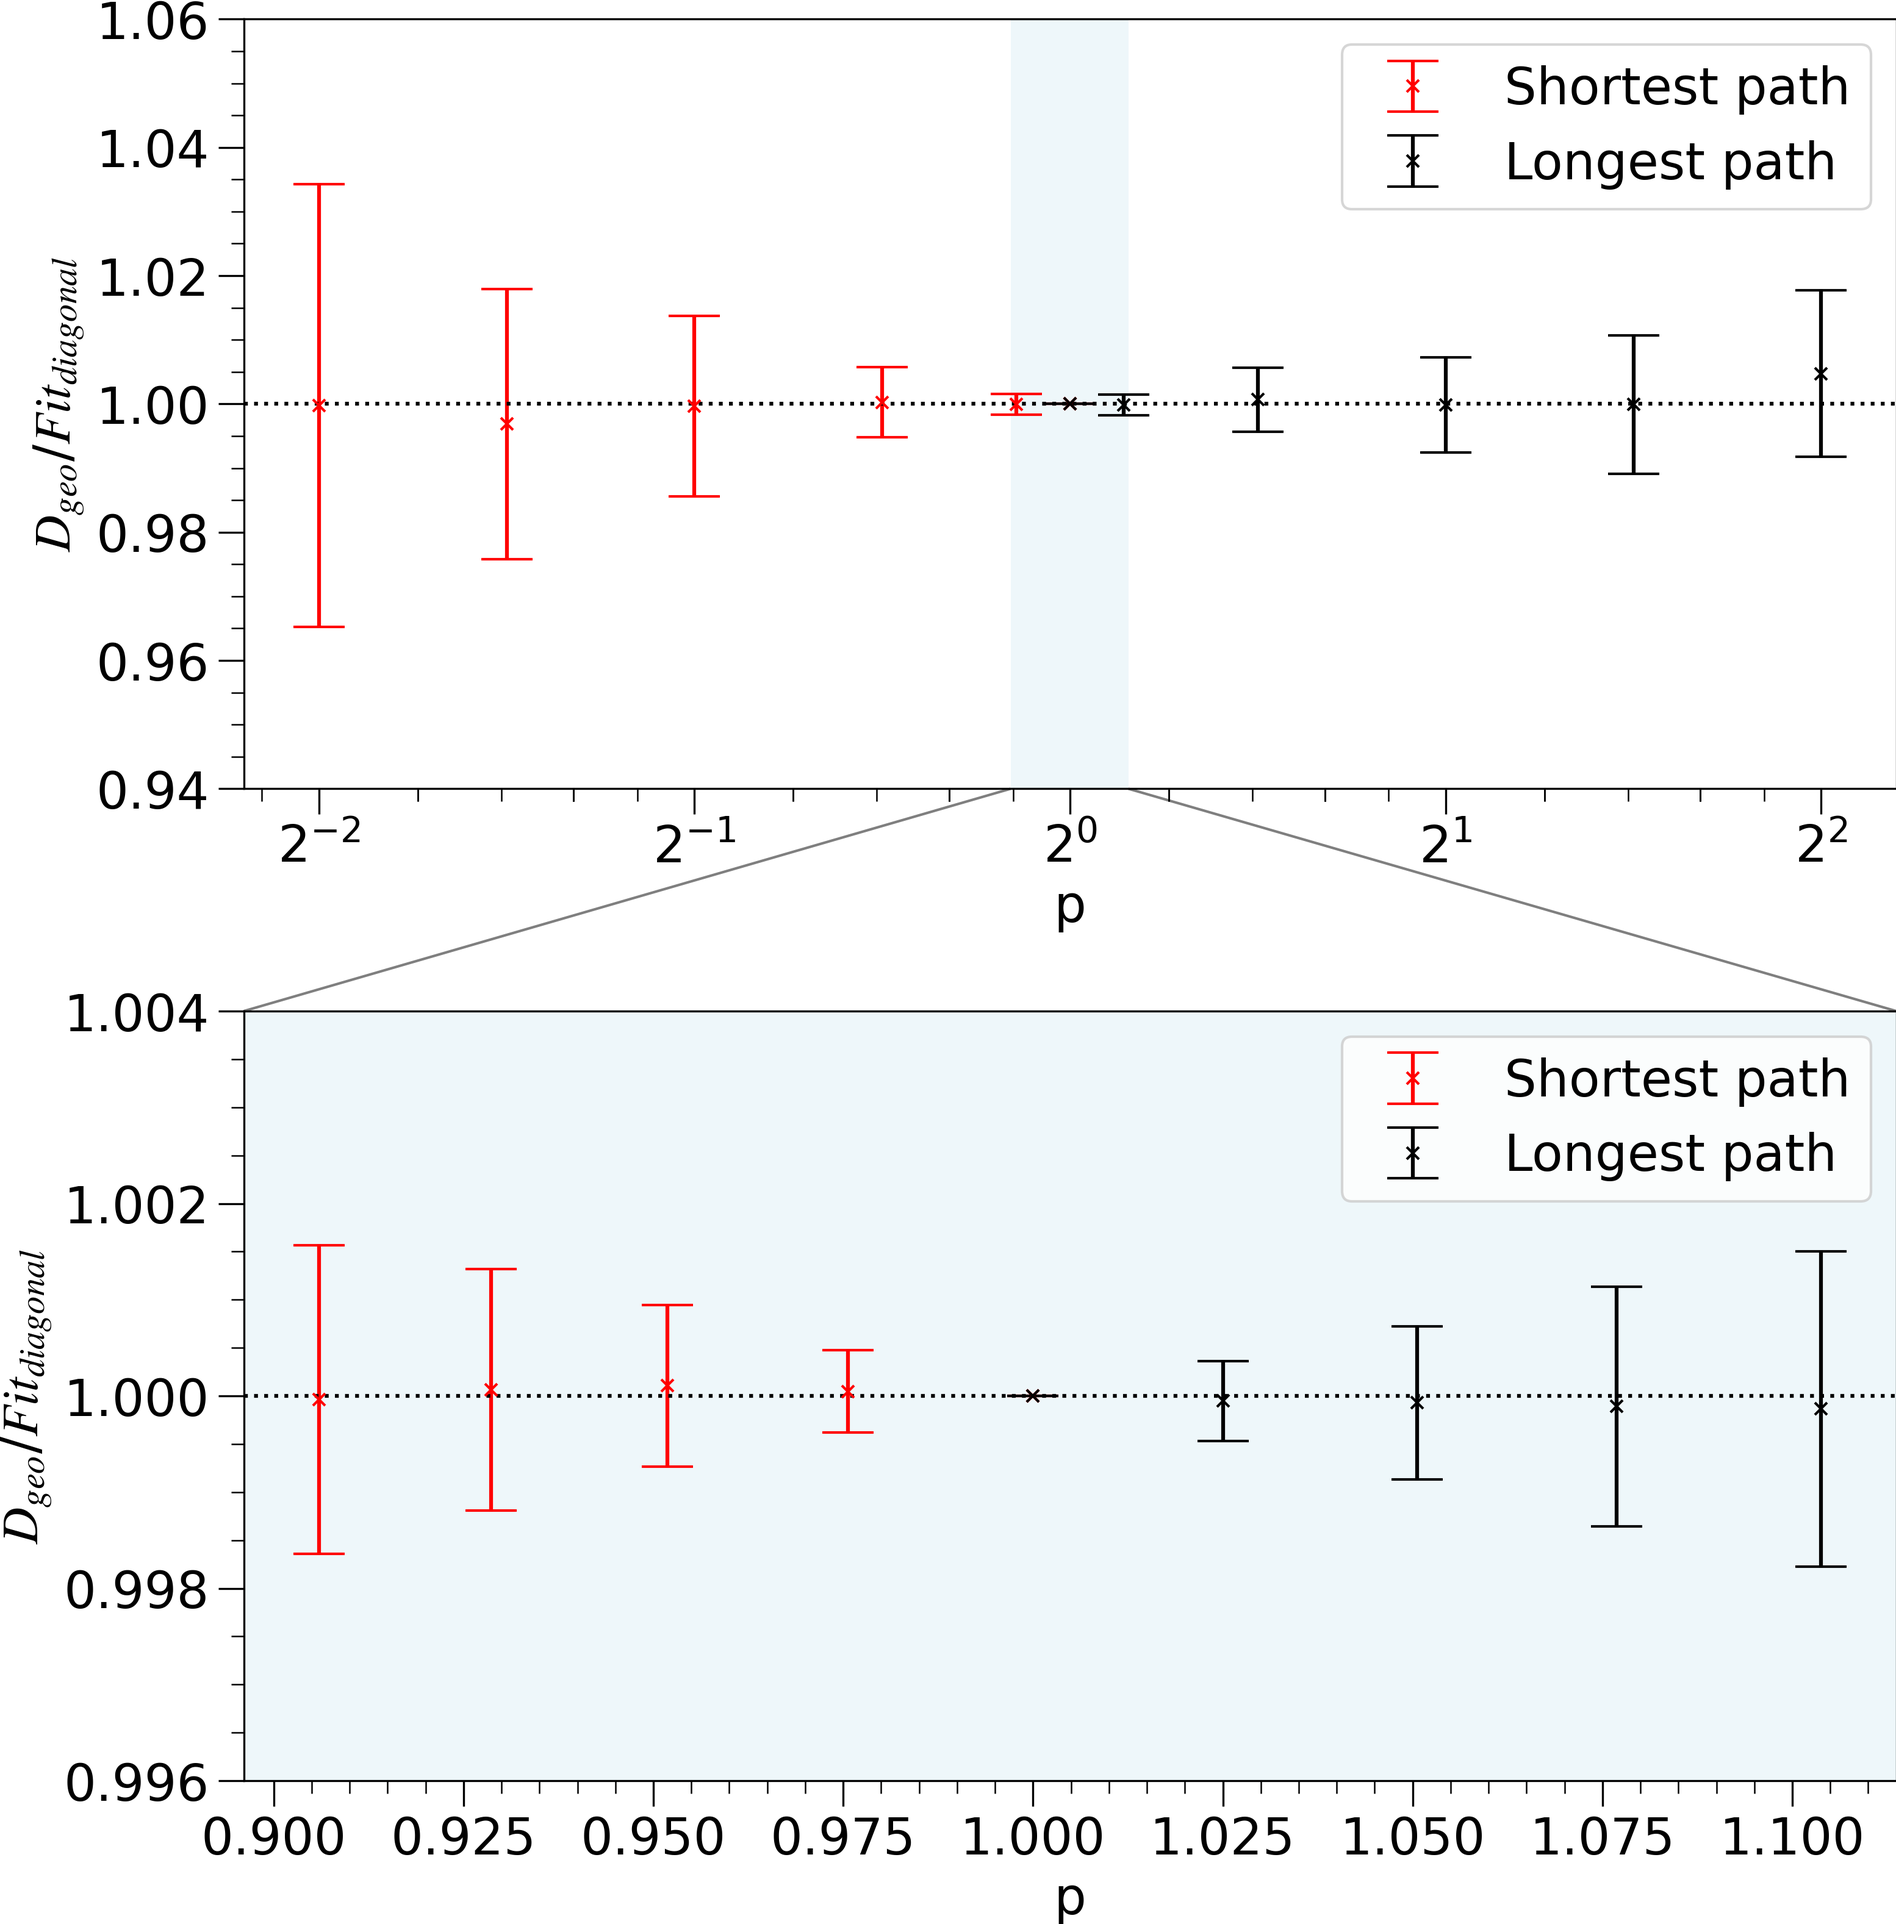
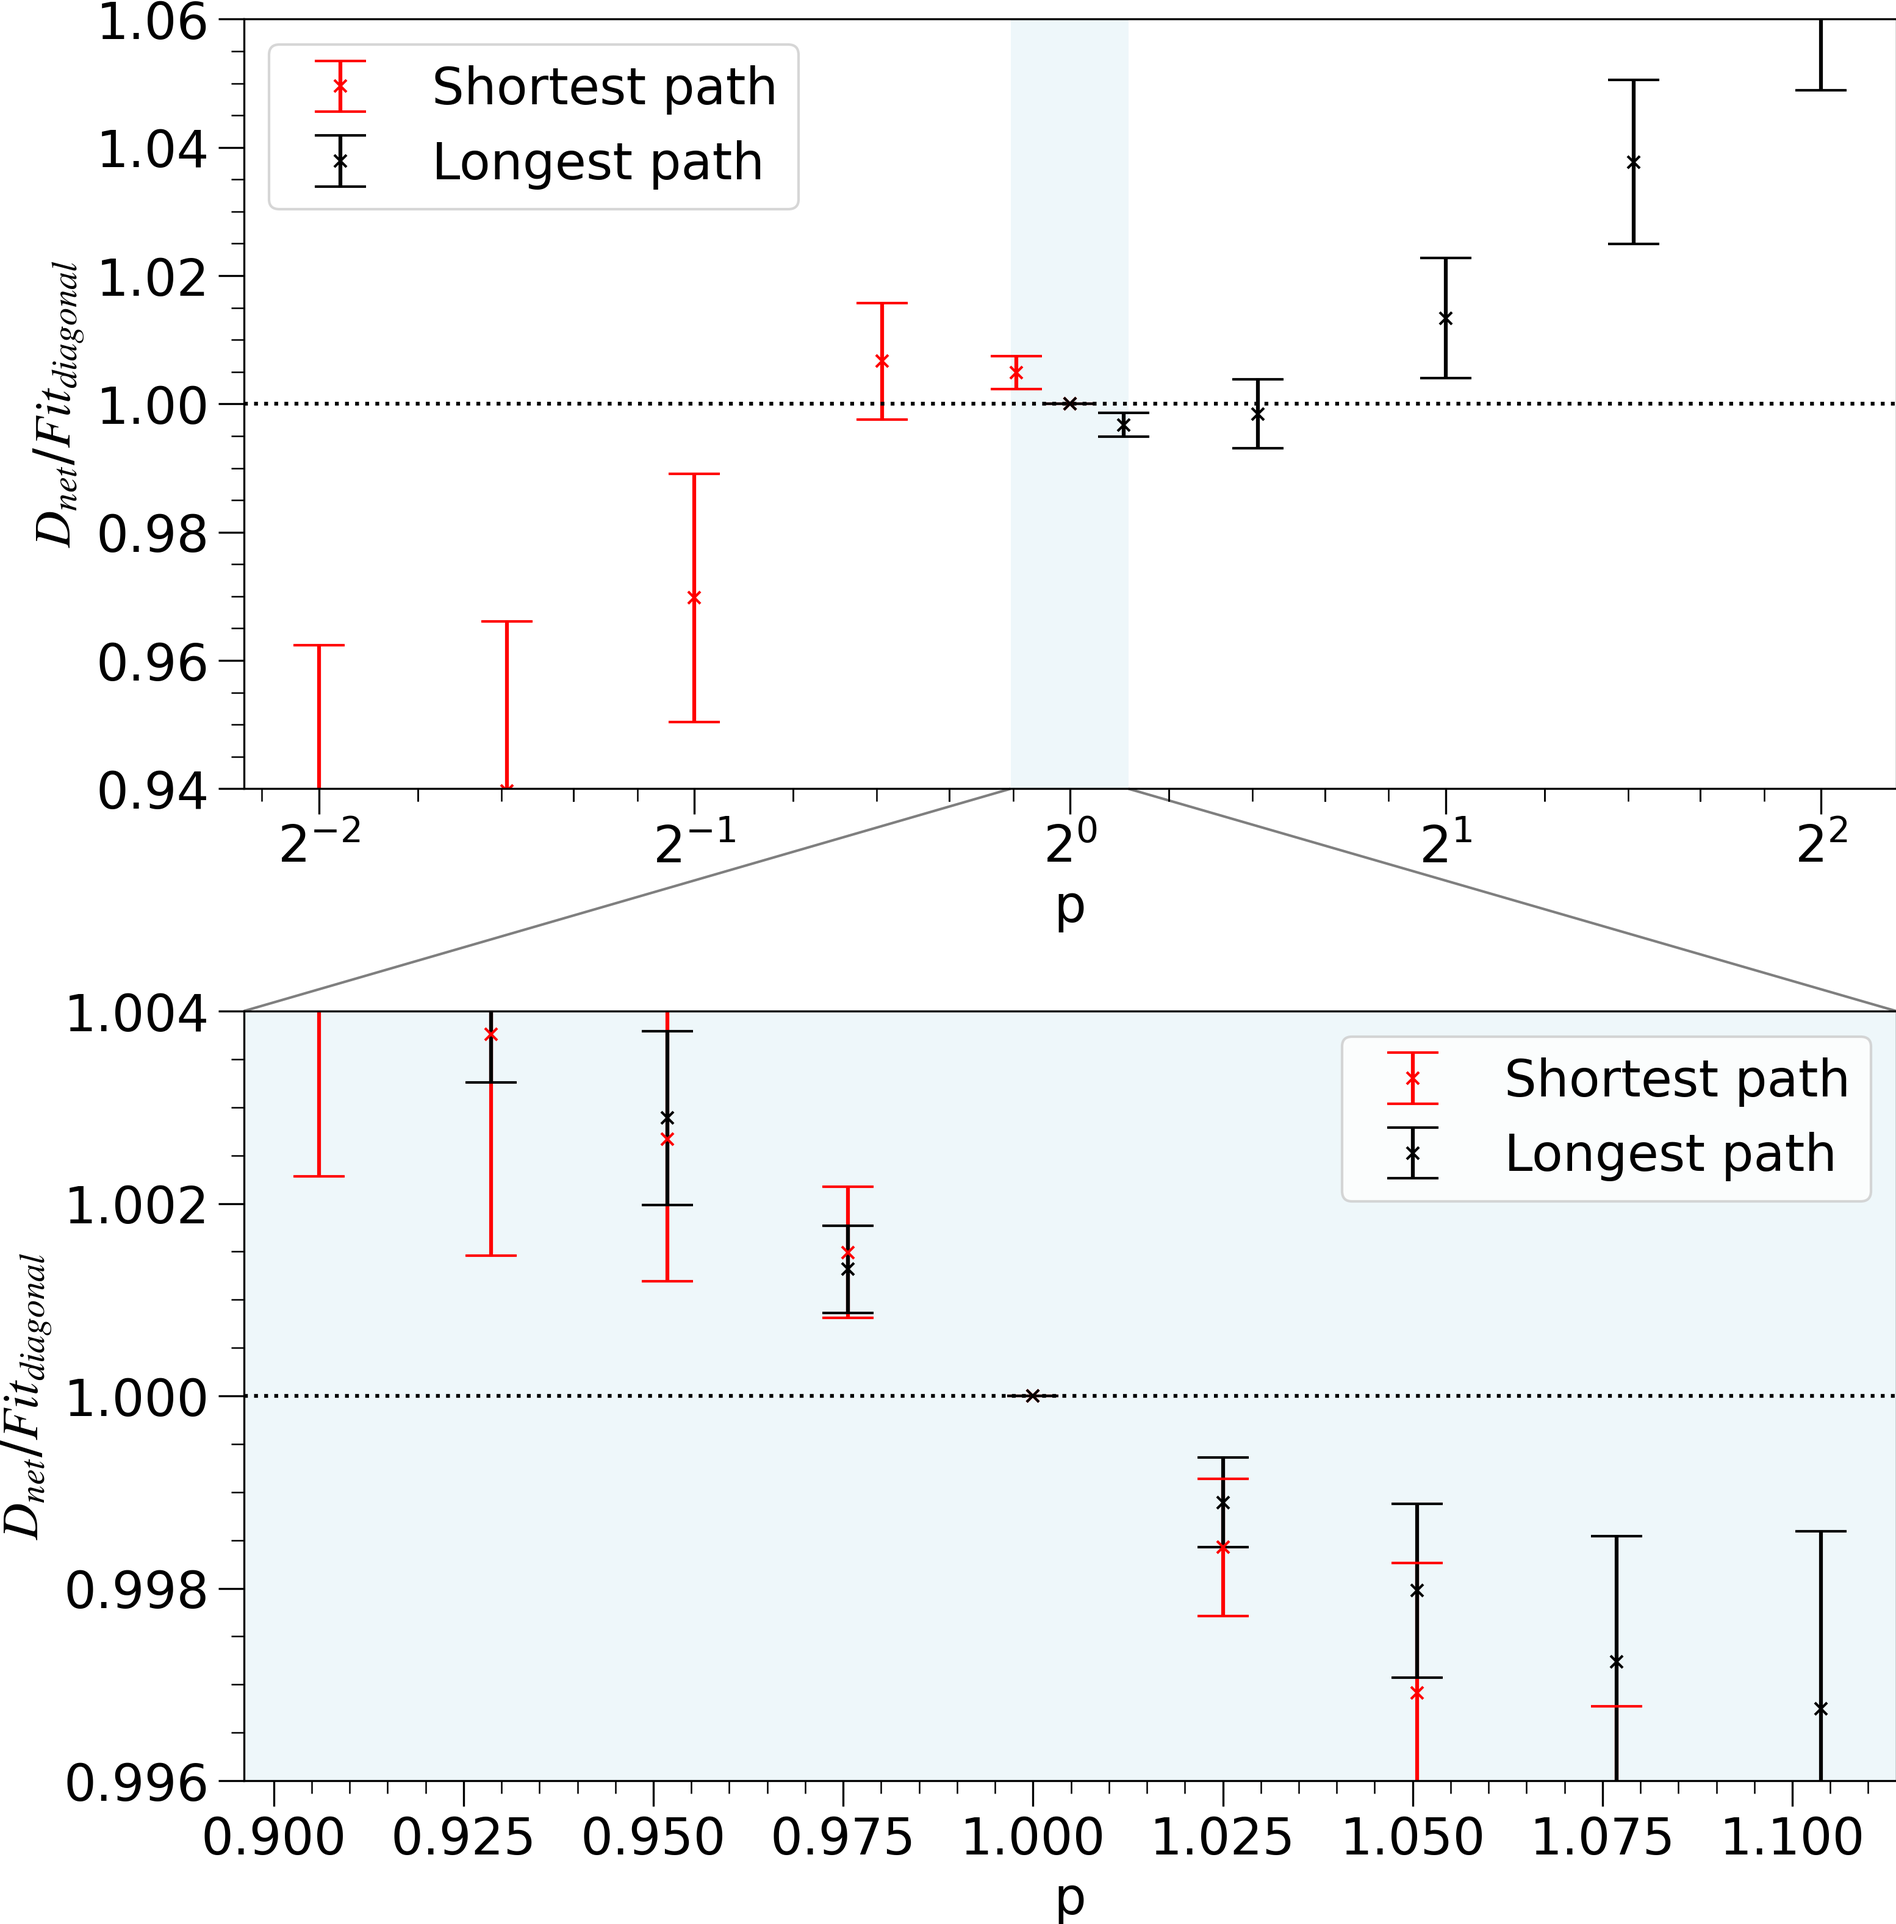
added new fitting function for plotter_perc_2.py

diff --git a/plotter_perc_2.py b/plotter_perc_2.py
@@ -205,25 +205,7 @@ for d in D:
             plt.fill_between(x, y_band_low, y_band_up, alpha = 0.3)
             plt.plot(x, frechet(x, xme, alphae))
             plt.show()
-#%%
-def linear(x, a, b):
-    return a*x + b
 
-for d in D:
-    for p in P[:]:
-        for rho in RHO[:]:
-            x = np.array([k for k in K])
-            y = np.array([(dataframe[d][p][k][rho]['p']/M) for k in x])
-            xmin = [k for k in K].index(min([x[i] for i in range(len(x)) if y[i] > 0]))
-            X = np.log(x[xmin:])
-            Y = -np.log(-np.log(y[xmin:]))
-            W, Z, (a,b), cov = funcfit(linear, X, Y)
-            plt.plot(X, Y)
-            plt.plot(W, Z)
-            plt.show()
-            plt.plot(x, y)
-            plt.plot(x, frechet(x, np.exp(-b/a), a))
-            plt.show()
 #%% PRINT 1ST DERIVATIVE OF PERCOLATION PLOT
 def dfunc(x, xm, alpha):
     """
@@ -616,3 +598,88 @@ ax.annotate(r'$\rho$', xy = (3.3, 0.7), xycoords = 'data',
 
 plt.tight_layout()
 plt.show()
+
+#%%
+def Frechet(x, s, alpha):
+    return np.exp(-((x)/s)**-alpha)
+
+def Gumbel(x, mu, beta):
+    return np.exp(-np.exp(-(x-mu)/beta))
+
+def FrechetGumbel(x, s, alpha, mu, beta):
+    return Frechet(x, s, alpha) * Gumbel(x, mu, beta)
+
+def funcfit(func, xdata, ydata, x = None, **kwargs):
+    params, cov = op.curve_fit(func, xdata, ydata, **kwargs)
+    if x == None:
+        x = np.linspace(xdata[0], xdata[-1], 500)
+        y = func(x, *params)
+    else:
+        y = func(x, *params)
+    return x, y, params, cov
+
+shapes = iter(['.', '.', '.'])
+params_dict = {p:{rho:{'params': None} for rho in RHO} for p in P}
+for d in D:
+    for p in P[:]:
+        for rho in [4096]:
+            x = np.array([k for k in K])
+            y = np.array([(dataframe[d][p][k][rho]['p']/M) for k in x])
+            yerr = [np.sqrt(M*y*(1-y))/M for y in y]
+            x_min = [k for k in K].index(min([x[i] for i in range(len(x)) if y[i] > 0])) 
+            x_max = [k for k in K].index(max([x[i] for i in range(len(x)) if y[i] <0.99]))
+            # w, z, params, cov = funcfit(frechet, x[x_min:x_max], y[x_min:x_max], p0 = [2, 8], sigma = yerr[x_min:x_max])
+            # z0, z1 = params
+            # x_p = z0/((1/z1 + 1)**(1/z1))
+            s, t, params, cov = funcfit(FrechetGumbel, x[x_min:x_max], y[x_min:x_max], sigma = yerr[x_min:x_max], p0 = [2, 8, 2, 2])
+            params_dict[p][rho]['params'] = params
+            print(params, params[0])
+            plt.ylabel(r'$\Pi(\langle k \rangle)$')
+            plt.xlabel(r'$\langle k \rangle $')
+            # plt.yscale('log')
+            # plt.xscale('log')
+            # plt.ylim(10e-2, 1)
+            # plt.xlim(x[x_min], x[x_max])
+            plt.errorbar(x, y, yerr = yerr, fmt = '.', capsize = 3, ms = 1, label = rf'p={p}, $\rho$ = {rho}')
+            # plt.plot(w, z, label = 'frechet')
+            # plt.plot(x, Frechet(x, *params[:2]))
+            # plt.plot(x, Gumbel(x, *params[2:]))
+            plt.plot(s, t, label = 'frechet * gumbel')
+            epsilon = np.sqrt(np.log(2/0.1)/(2*M))
+            y_band_low = [i - epsilon for i in y]
+            y_band_low = [max([0,i]) for i in y_band_low]
+            y_band_up = [i + epsilon for i in y]
+            y_band_up = [min([1, i]) for i in y_band_up]
+            plt.fill_between(x, y_band_low, y_band_up, alpha = 0.3)
+            plt.legend()
+            plt.show()
+#%%
+
+def frechet(x, s, alpha):
+    return (alpha/s) * ((x/s) ** (-1-alpha)) * Frechet(x, s, alpha)
+
+def gumbel(x, mu, beta):
+    return (1/beta) * np.exp(-(x-mu)/beta) * Gumbel(x, mu, beta)
+    
+def frechetgumbel(x, s, alpha, mu, beta):
+    return Frechet(x, s, alpha) * gumbel(x, mu, beta) + frechet(x, s, alpha) * Gumbel(x, mu, beta)
+
+for d in D:
+    for p in P[:]:
+        for rho in [4096]:
+            x = np.array([k for k in K])
+            y = np.array([(dataframe[d][p][k][rho]['p']/M) for k in x])
+            yerr = [np.sqrt(M*y*(1-y))/M for y in y]
+            x_min = [k for k in K].index(min([x[i] for i in range(len(x)) if y[i] > 0])) 
+            x_max = [k for k in K].index(max([x[i] for i in range(len(x)) if y[i] <0.99]))
+            params = params_dict[p][rho]['params']
+            fparams = params[:2]
+            gparams = params[2:]
+            
+            u = np.linspace(x[0], x[-1], 1000)
+            v = [i for i in frechetgumbel(u, *params)]
+            plt.plot(u, v, label = f'p = {p}')
+            plt.legend()
+            plt.ylabel(rf'$\partial_x \; \Pi(k)$')
+            plt.xlabel('k')
+            print(u[v.index(max(v))])

diff --git a/plotter.py b/plotter.py
@@ -115,7 +115,7 @@ def file_id(name, pkl = True, directory = None):
 
 #NOTE: MAKE SURE TO UNZIP HPC DATA!
 
-fname = 'para_geo_4000_10000_consistent' #odd = kevin, even = ariel
+fname = 'para_net_4000_10000_consistent' #odd = kevin, even = ariel
 try:
     dataframe = pickle.load(open(f'{file_id(fname)}', 'rb'))
 except:
@@ -167,6 +167,9 @@ for path, label in zip(path_type[:2], labels):
 
     ax1.errorbar(x, y, yerr = yerr, label = label, fmt = fmt, ms = 10, capsize = 10, color = colour, #label = r'$%s {%s}$' % (path, optimizer)
                  markerfacecolor = 'none', markeredgewidth = 1)
+
+ax1.plot(np.linspace(x[0], x[-1], 100), np.array([2**(1/i) for i in np.linspace(x[0], x[-1], 100)]), label = 'diagonal')
+ax1.plot(np.linspace(x[0], x[-1], 100), np.array([2 for i in range(100)]), label = 'perimeter')
 
 ax1.set_xlabel('p')
 if optimizer == 'geo':
@@ -244,8 +247,8 @@ for l in dffit:
     u, v, params, cov = ff.Dfit(x, y, sigma = yerr, absolute_sigma = True)
     uu = np.array([uu for uu in u if uu < P[-5] and uu > P[4]])
     vv = ff.Dfunc(uu, *params)
-    ax1.plot(u, v, color = colour, label = r'$fit:$ $2^{(1 - b + bp^{-a})}$', linestyle = ls, linewidth = 2)
-    ax2.plot(uu, vv, color = colour, label = r'$fit:$ $2^{(1 - b + bp^{-a})}$', linestyle = ls, linewidth = 2)
+    # ax1.plot(u, v, color = colour, label = r'$fit:$ $2^{(1 - b + bp^{-a})}$', linestyle = ls, linewidth = 2)
+    # ax2.plot(uu, vv, color = colour, label = r'$fit:$ $2^{(1 - b + bp^{-a})}$', linestyle = ls, linewidth = 2)
 
 
 ax2.set_xlabel('p')
@@ -412,3 +415,11 @@ zoom_effect(ax2, ax1, zoom_type)
 plt.tight_layout()
 plt.savefig('clean_figs/path_geo_angle.png', dpi = 300, bbox_inches = 'tight', pad_inches = 0)
 plt.show()
+
+#%%
+for path, label in zip(path_type[:2], labels):
+    x = [p for p in P if p <= 0.91 or p >= 1.1 or p == 1]
+    y = [np.average(dataframe['l'][path][p]['raw']) for p in x]
+    yerr = [np.std(dataframe['l'][path][p]['raw']) for p in x]
+    plt.plot(x, y, label = label)
+    plt.legend()
